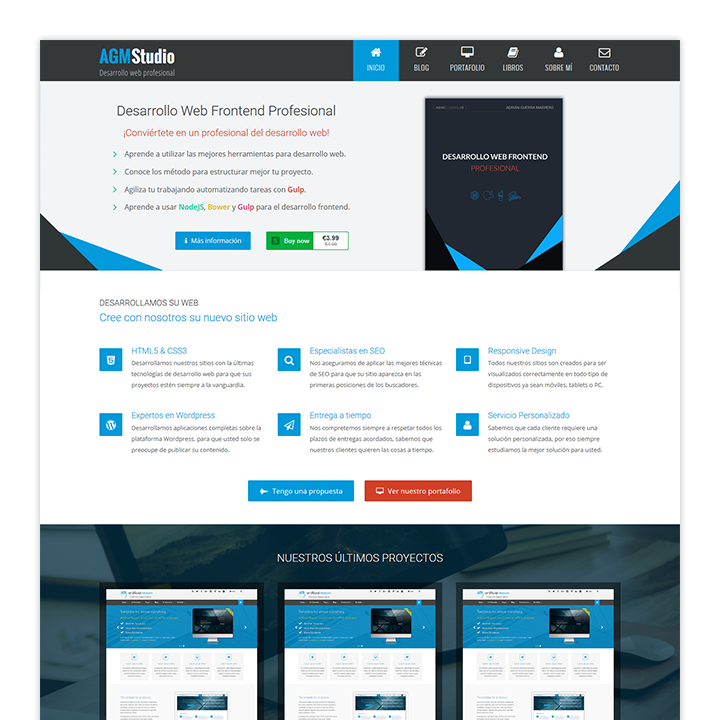
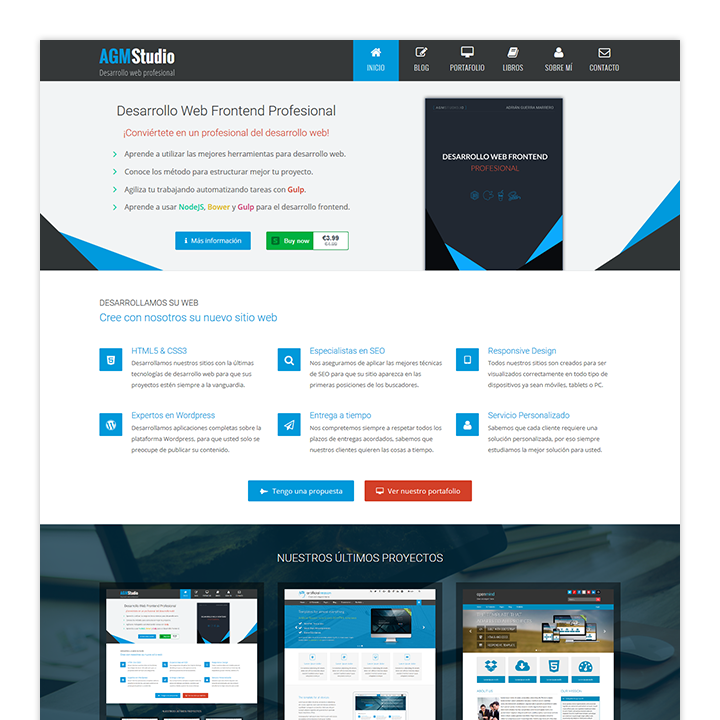
update data

Changed region(s): [[0.1222, 0.7944, 0.3667, 1.0], [0.6417, 0.7944, 0.8556, 1.0]]

diff --git a/src/html/index.html b/src/html/index.html
@@ -106,7 +106,7 @@
                     <div class="col-md-4">
                         <div class="home-portfolio-item wow zoomInLeft animation-delay-6">
                             <a href="#" class="thumbnail">
-                                <img src="<%= assets %>/img/w1.png" alt="" class="img-responsive">
+                                <img src="<%= assets %>/img/w2.png" alt="" class="img-responsive">
                             </a>
                         </div>
                     </div>
@@ -120,7 +120,7 @@
                     <div class="col-md-4">
                         <div class="home-portfolio-item wow zoomInRight animation-delay-6">
                             <a href="#" class="thumbnail">
-                                <img src="<%= assets %>/img/w1.png" alt="" class="img-responsive">
+                                <img src="<%= assets %>/img/w3.png" alt="" class="img-responsive">
                             </a>
                         </div>
                     </div>

diff --git a/src/html/acercade.html b/src/html/acercade.html
@@ -123,7 +123,7 @@
                         </div>
                         <div class="col-md-3 col-sm-6">
                             <div class="feature-counter">
-                                <span class="feature-counter-number numscroller" data-slno='1' data-min='0' data-max='6047' data-delay='1' data-increment="10">6047</span>
+                                <span class="feature-counter-number numscroller" data-slno='1' data-min='0' data-max='6061' data-delay='1' data-increment="10">6061</span>
                                 <h5 class="feature-counter-title">Plantillas vendidas</h5>
                             </div>
                         </div>
